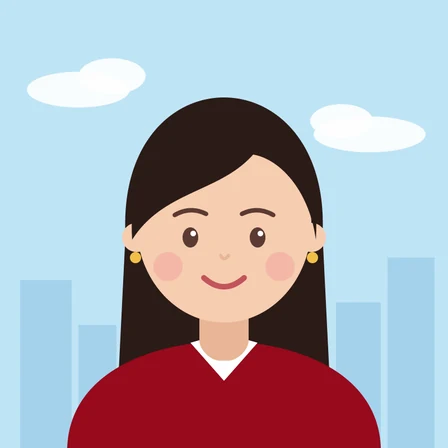
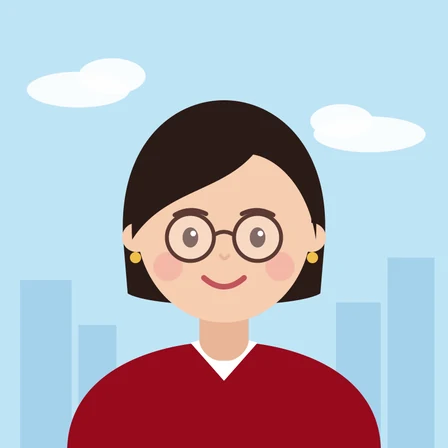
Ảnh thành viên: Nhật Hà tóc ngắn đeo kính, Thục Nhi tóc dài thả mái thưa đeo kính

diff --git a/scripts/make-team-avatars.py b/scripts/make-team-avatars.py
@@ -73,6 +73,32 @@ def hair_bob(c):
     return back, front
 
 
+def hair_short(c):
+    """Tóc ngắn ngang cằm, mái chéo."""
+    back = f'<path d="M110 214 C100 48 300 48 290 214 L286 262 C262 276 138 276 114 262 Z" fill="{c}"/>'
+    front = f'<path d="M118 214 C108 56 292 56 282 214 C276 170 250 142 226 138 C196 172 146 170 118 214 Z" fill="{c}"/>'
+    return back, front
+
+
+def hair_long_wispy(c):
+    """Tóc dài thả, mái thưa: đường chân tóc cao, vài lọn mảnh rủ xuống trán."""
+    back = f'<path d="M110 210 C100 46 300 46 290 210 L300 376 C262 392 138 392 100 376 Z" fill="{c}"/>'
+    cap = f'<path d="M118 212 C108 56 292 56 282 212 C274 160 240 136 200 136 C160 136 126 160 118 212 Z" fill="{c}"/>'
+    strands = "".join(
+        f'<path d="M{x1} 136 Q{cx} 160 {x2} 184" stroke="{c}" stroke-width="{w}" fill="none" stroke-linecap="round" opacity=".9"/>'
+        for x1, cx, x2, w in [
+            (150, 146, 144, 5),
+            (166, 164, 160, 4),
+            (182, 182, 178, 5),
+            (198, 200, 197, 4),
+            (214, 216, 216, 5),
+            (230, 234, 234, 4),
+            (246, 252, 252, 5),
+        ]
+    )
+    return back, cap + strands
+
+
 def hair_bun(c):
     back = f'<circle cx="200" cy="88" r="40" fill="{c}"/><path d="M114 220 C104 52 296 52 286 220 L282 250 C250 232 150 232 118 250 Z" fill="{c}"/>'
     front = f'<path d="M118 212 C110 58 290 58 282 212 C270 164 236 142 200 150 C164 142 130 164 118 212 Z" fill="{c}"/>'
@@ -118,9 +144,9 @@ def avatar(hair, top, collar=None, glasses=False, earrings=None, extra=""):
 HEADBAND = '\n  <path d="M124 168 C150 124 250 124 276 168 L270 178 C246 140 154 140 130 178 Z" fill="#F0BF49"/>'
 
 AVATARS = {
-    "nhat-ha": avatar(hair_long("#2B1B17"), "#970A1D", collar="#FFFFFF", earrings="#F0BF49"),
+    "nhat-ha": avatar(hair_short("#2B1B17"), "#970A1D", collar="#FFFFFF", glasses=True, earrings="#F0BF49"),
     "kieu-trang": avatar(hair_wavy("#4A2C22"), "#F7F1EC", collar="#E999A7"),
-    "thuc-nhi": avatar(hair_bob("#1F1A1C"), "#5FB894", glasses=True),
+    "thuc-nhi": avatar(hair_long_wispy("#1F1A1C"), "#5FB894", glasses=True),
     "xuan-tiep": avatar(hair_bun("#3A241D"), "#F0BF49", collar="#FFFFFF"),
     "van-nhu": avatar(hair_pigtails("#2B1B17", "#E999A7"), "#E999A7", extra=HEADBAND),
 }
